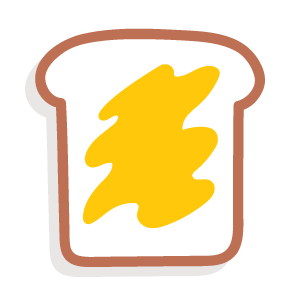
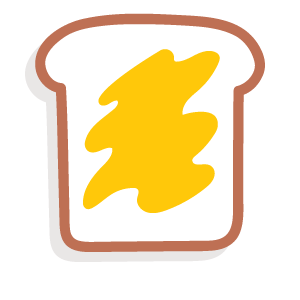
update margin on image

Changed region(s): [[0.06, 0.03, 0.9, 0.93], [0.81, 0.48, 0.84, 0.51], [0.75, 0.48, 0.78, 0.51]]

diff --git a/README.md b/README.md
@@ -1,0 +1,17 @@
+#Readme
+
+Flexbox and The Better Butter Battle
+
+The CSS portion of class has, so far, been my favorite. I’m a designer, so thinking visually is something that comes naturally to me. Whereas usually I go straight from a sketch to the most appropriate Adobe program, knowing how to manipulate the design with CSS allowed me to go straight from my sketch into Atom to begin coding.
+
+After discussing global design (designing for mobile first and adding the adjusted CSS for larger browser window sizes in afterwards) with Sam Kapila, The Iron Yard’s resident CSS expert, I decided to test my new skills and come up with a project on my own.
+
+Inspired by one of my favorite Dr. Seuss books, _The Better Butter Battle_, I came up with a site that demonstrates when the media query shifts by changing the image shown on the page.
+
+In _The Better Butter Battle_ there are two types of people. Yooks, who wear blue and eat their bread butter side up, and Zooks, who wear orange and eat their bread butter side down. I created two boxes, one for each type and used Adobe Illustrator to create six different graphics.
+
+***screenshot of each view***
+
+In mobile view, two butter knives with a smear of butter are displayed, one facing up and one down. The second size reveals two butter dishes, one right side up and the other upside down, and when you get to the largest media query, two pieces of bread are displayed; one with butter on the top and the other dripping butter from the bottom.
+
+This project was a lot of fun to work on, and I hope that it can serve as a visual aid to help anyone new to CSS understand media queries.
